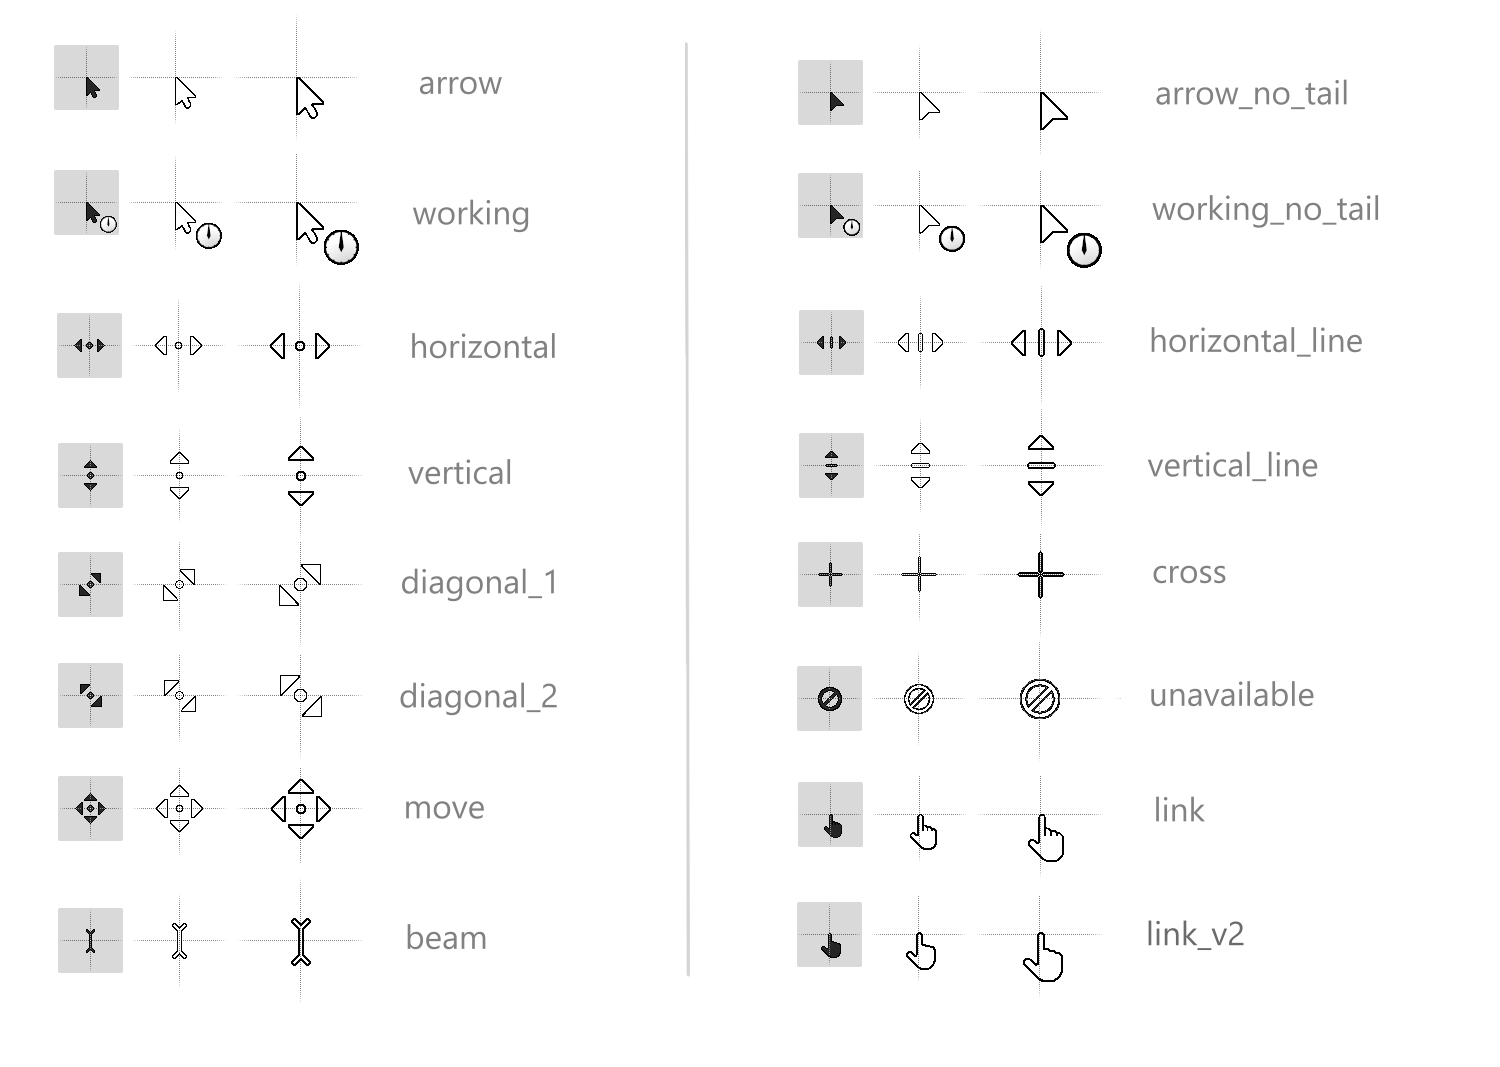
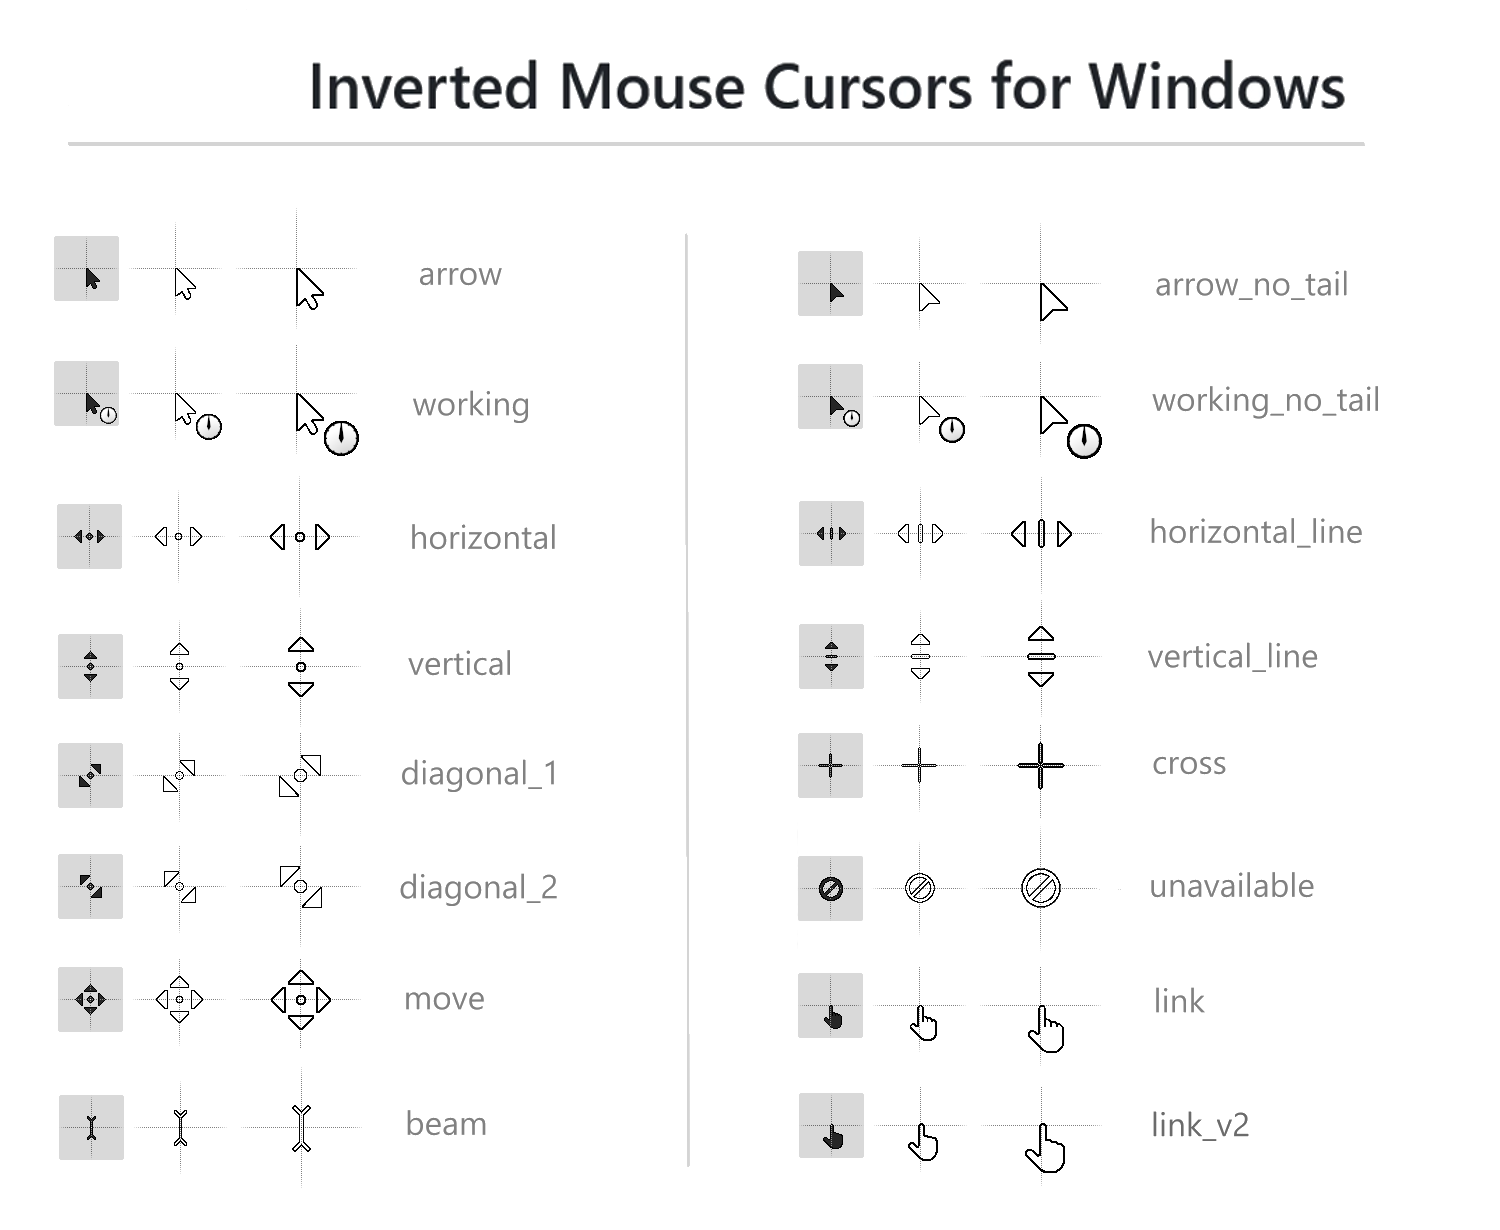
Fix issue with screenshot

diff --git a/README.md b/README.md
@@ -1,4 +1,4 @@
-<img src="./screenshots/all_cursors_with_title.png">
+<img src="./screenshots/all_cursors.png">
 
 This project aims to recreate standard inverted mouse cursors with a more modern design. This cursor inverts the colors behind it, and this way it always stands out no matter the background. Although this feature was initially designed for people with vision problems, regular people could greatly benefit from it as well. Original inverted mouse cursors, available in Windows out the box, hasn't been updated for decades and look quite outdated as for now. This project intends to fix it by providing overhauled inverted mouse cursors. 
 
